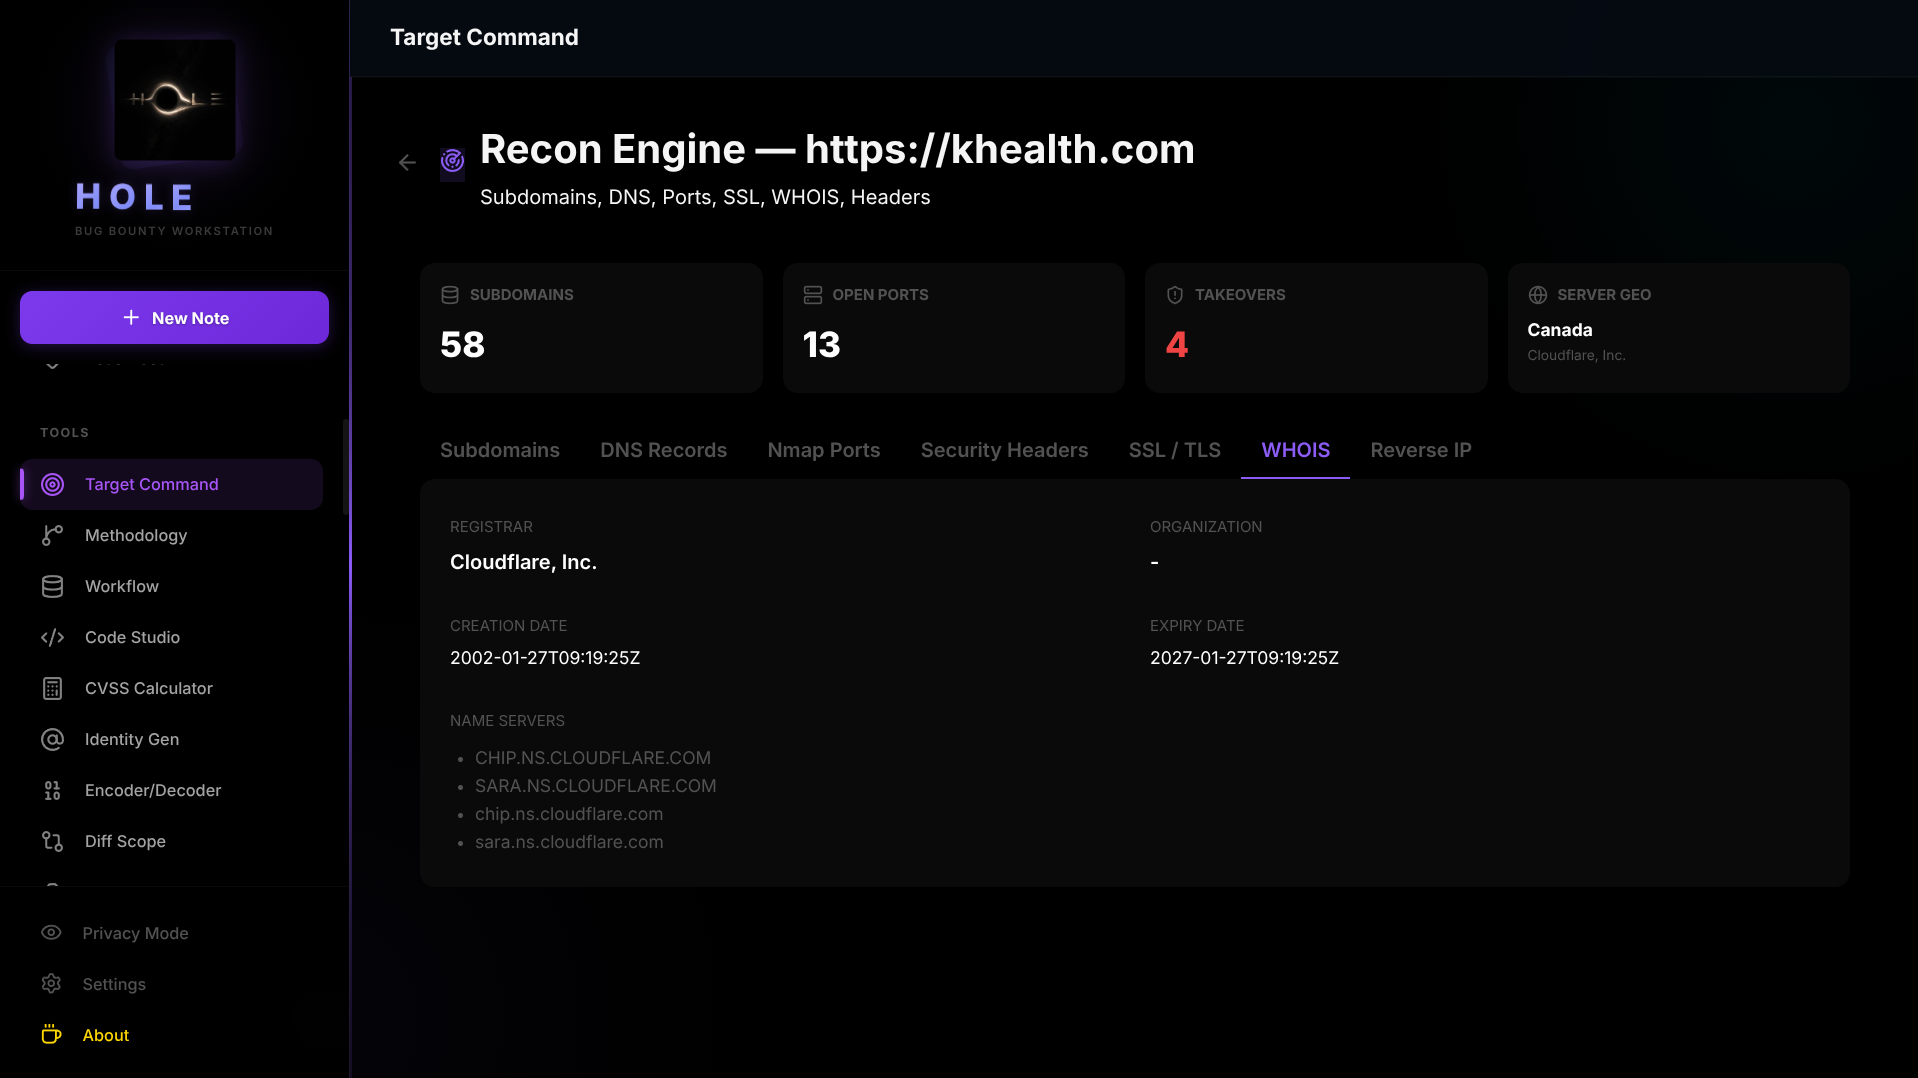
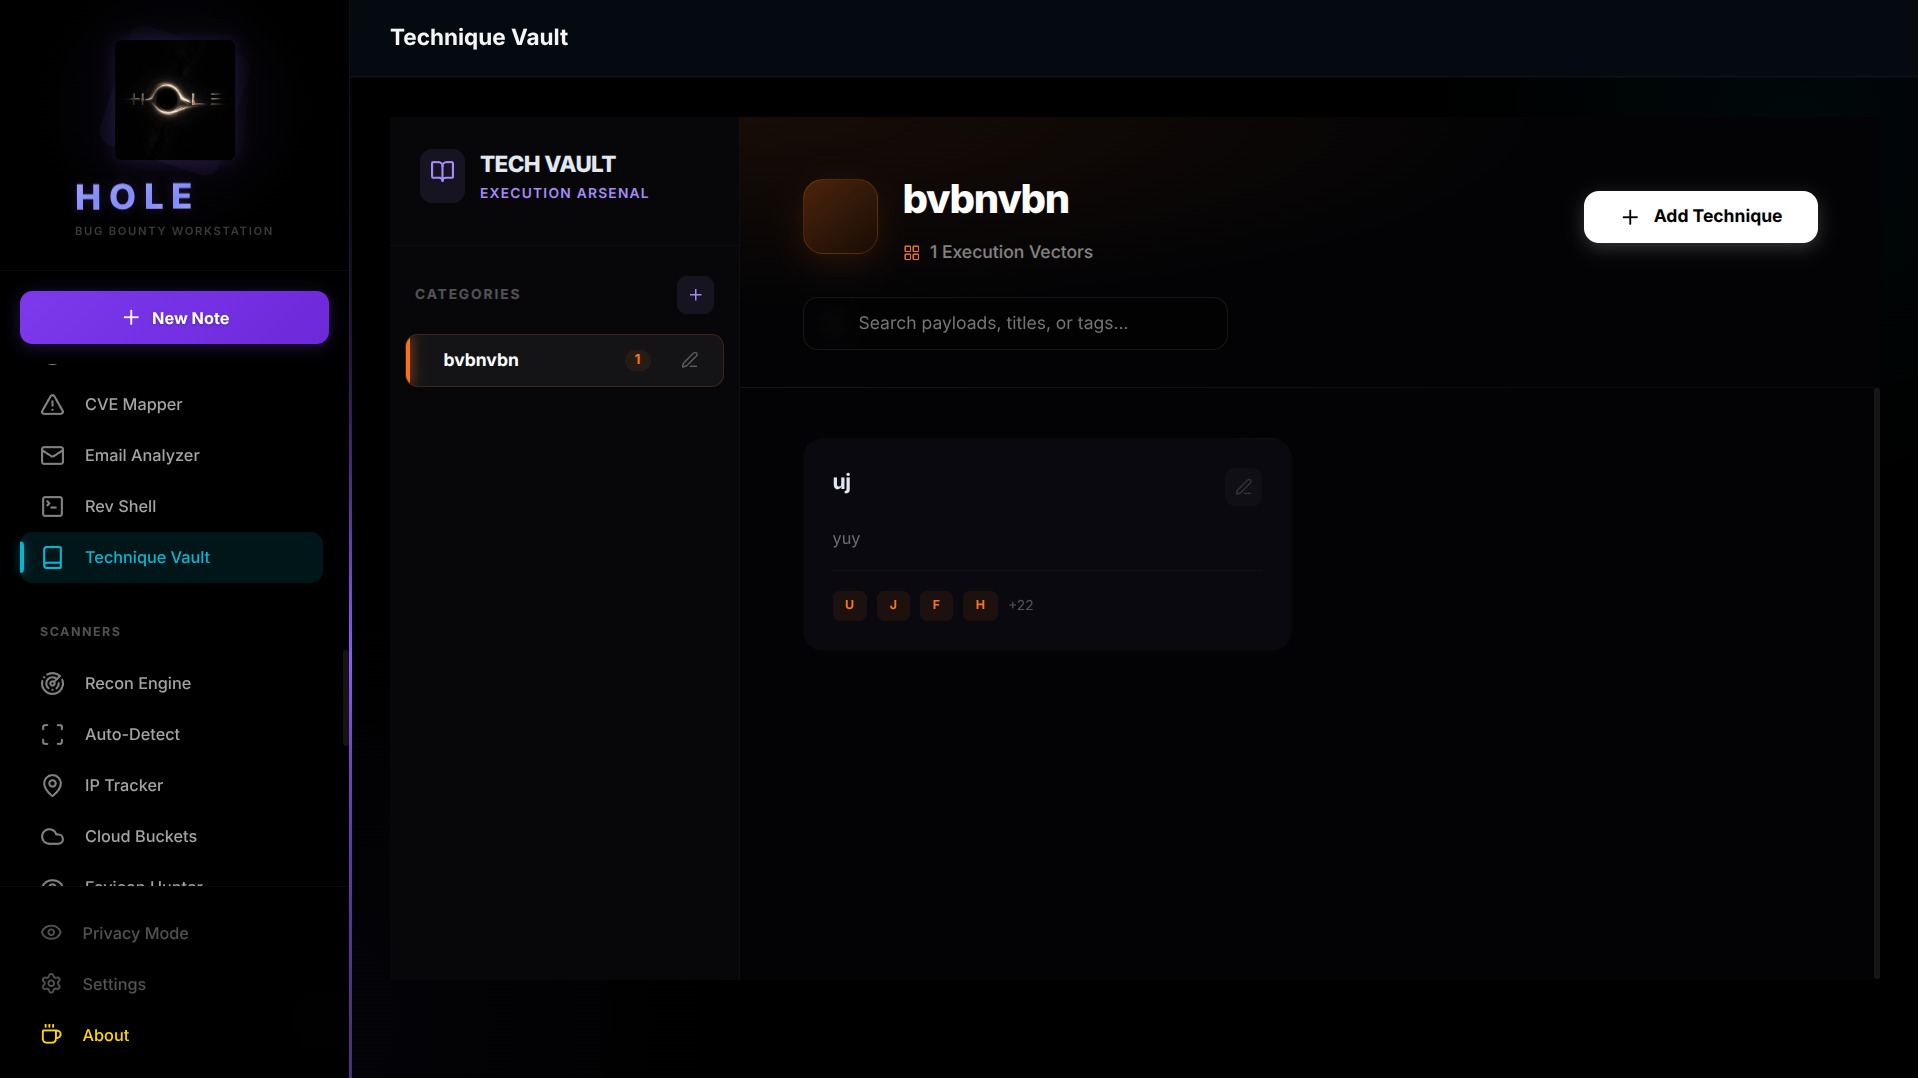
Update technique vault screenshots in PRO features

diff --git a/README.md b/README.md
@@ -114,6 +114,8 @@ To purchase your lifetime license and receive the fully compiled, secure desktop
   <img src="screenshots/pro_features/pro_22.png" width="90%" alt="PRO Feature 22" />
   <br/><br/>
   <img src="screenshots/pro_features/pro_23.png" width="90%" alt="PRO Feature 23" />
+  <br/><br/>
+  <img src="screenshots/pro_features/pro_24.png" width="90%" alt="PRO Feature 24" />
 </div>
 
 <br/>
